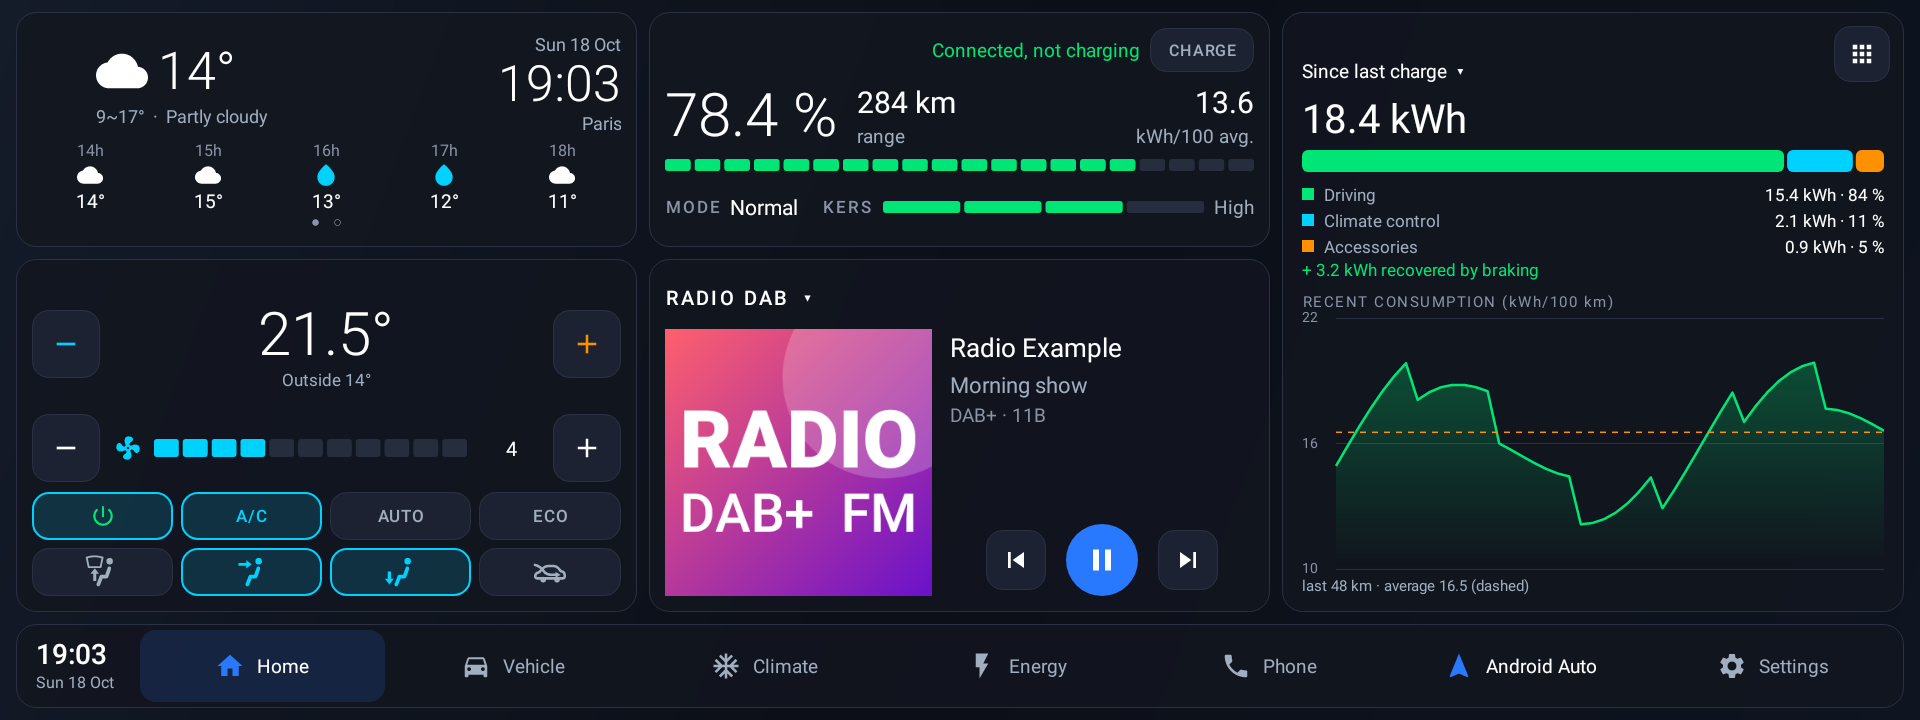
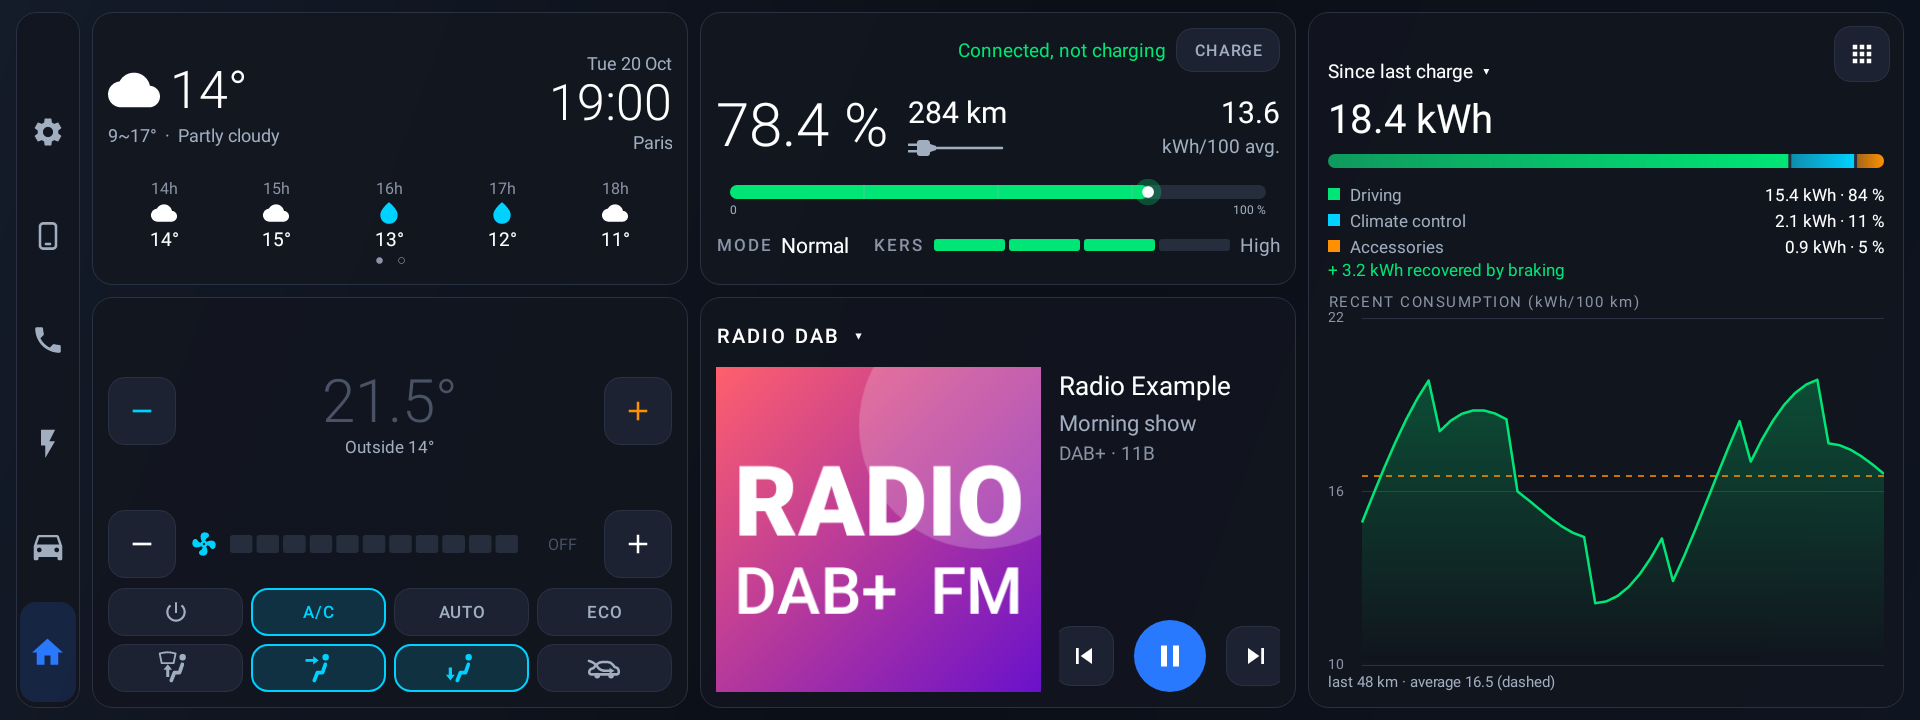
README: 1.3.x changes (Keep climate on, range bar, map and weather offline, full-throttle special) and new screenshots with the vertical bar
Most screenshots now use the vertical bar on the left (fresh install
default); one shows the bottom dock.

diff --git a/app/src/testEmulator/java/app/mg4dash/ScreenshotTest.kt b/app/src/testEmulator/java/app/mg4dash/ScreenshotTest.kt
@@ -26,6 +26,18 @@ import java.util.concurrent.TimeUnit
 @Config(sdk = [28], qualifiers = "w1920dp-h720dp-land-mdpi")
 class ScreenshotTest {
 
+    /** Barre verticale à gauche, comme sur une nouvelle installation ; un test la remet en bas. */
+    @org.junit.Before fun verticalBarByDefault() {
+        org.robolectric.RuntimeEnvironment.getApplication().getSharedPreferences("mg4launcher", android.content.Context.MODE_PRIVATE)
+            .edit().putBoolean("vertical_dock", true).commit()
+    }
+
+    @Test fun homeBottomBar() {
+        org.robolectric.RuntimeEnvironment.getApplication().getSharedPreferences("mg4launcher", android.content.Context.MODE_PRIVATE)
+            .edit().putBoolean("vertical_dock", false).commit()
+        shoot(MainActivity::class.java, "home_bottom_bar.png")
+    }
+
     @Test fun home() = shoot(MainActivity::class.java, "home.png")
     @Test fun climate() = shoot(ClimateActivity::class.java, "climate.png")
     @Test fun vehicle() = shoot(app.mg4dash.pages.VehicleActivity::class.java, "vehicle.png")
@@ -262,30 +274,34 @@ class ScreenshotTest {
 
     /** Clim maintenue : fenêtre sur l'accueil, puis son écran (lisible de dehors). */
     @Test @Config(qualifiers = "fr-w1920dp-h720dp-land-mdpi")
-    fun climateHold() {
+    fun climateHold() = climateHoldShots("")
+
+    @Test fun climateHoldEn() = climateHoldShots("_en")
+
+    private fun climateHoldShots(sfx: String) {
         val sp = org.robolectric.RuntimeEnvironment.getApplication().getSharedPreferences("mg4launcher", android.content.Context.MODE_PRIVATE)
         sp.edit().putInt("theme_mode", 1).putBoolean("climhold_enabled", true).putInt("climhold_max_min", 0).commit()
         val home = Robolectric.buildActivity(MainActivity::class.java).setup().get()
         repeat(5) { shadowOf(Looper.getMainLooper()).idleFor(200, TimeUnit.MILLISECONDS) }
         app.mg4dash.climate.ClimateHoldPanel.show(home)
         shadowOf(Looper.getMainLooper()).idleFor(200, TimeUnit.MILLISECONDS)
-        save(home.window.decorView, "climhold_menu.png")
+        save(home.window.decorView, "climhold_menu$sfx.png")
         sp.edit().putBoolean("climhold_scheduled", true).putInt("climhold_runs", 3).commit()
         app.mg4dash.climate.ClimateHoldPanel.show(home)
         shadowOf(Looper.getMainLooper()).idleFor(200, TimeUnit.MILLISECONDS)
-        save(home.window.decorView, "climhold_menu_at.png")
+        save(home.window.decorView, "climhold_menu_at$sfx.png")
         app.mg4dash.climate.ClimateHold.start(home, 0, 20)
         val armed = Robolectric.buildActivity(app.mg4dash.climate.ClimateHoldActivity::class.java).setup().get()
         repeat(3) { Thread.sleep(200); shadowOf(Looper.getMainLooper()).idleFor(1000, TimeUnit.MILLISECONDS) }
-        save(armed.window.decorView, "climhold_countdown.png")
+        save(armed.window.decorView, "climhold_countdown$sfx.png")
         app.mg4dash.climate.ClimateHold.start(home, 0, 0)
         val screen = Robolectric.buildActivity(app.mg4dash.climate.ClimateHoldActivity::class.java).setup().get()
         repeat(6) { Thread.sleep(300); shadowOf(Looper.getMainLooper()).idleFor(1000, TimeUnit.MILLISECONDS) }
-        save(screen.window.decorView, "climhold_screen.png")
+        save(screen.window.decorView, "climhold_screen$sfx.png")
         app.mg4dash.climate.ClimateHold.schedule(home, System.currentTimeMillis() + 42 * 60_000L, 3, 15, 30, 0)
         val waiting = Robolectric.buildActivity(app.mg4dash.climate.ClimateHoldActivity::class.java).setup().get()
         repeat(6) { Thread.sleep(300); shadowOf(Looper.getMainLooper()).idleFor(1000, TimeUnit.MILLISECONDS) }
-        save(waiting.window.decorView, "climhold_waiting.png")
+        save(waiting.window.decorView, "climhold_waiting$sfx.png")
         app.mg4dash.climate.ClimateHold.stop("fin du test")
     }
 

diff --git a/README.md b/README.md
@@ -4,16 +4,17 @@ Full-screen launcher for the MG4 and its 1920 × 720 screen, developed on the SW
 
 Languages: English (default), French, German, Spanish, Italian and Dutch, following the car's system language. Units: km and kWh/100 km or miles and mi/kWh (following the car or set by hand), tyre pressure in bar, psi or kPa.
 
-Current version: **1.1.0** ([releases](https://github.com/Skittle6938/MG4Dash/releases)).
+Current version: **1.1.0**, latest beta **1.3.6** ([releases](https://github.com/Skittle6938/MG4Dash/releases)).
 
 > Screenshots are rendered on a PC with simulated data; the map excerpt is a fixed view of Paris (OpenStreetMap).
 
 ### Home
-![Home](docs/screenshots/home.png?v=14)
-Climate (temperature, fan, then two rows of buttons: power, A/C, AUTO, ECO, air directions, recirculation), energy (battery % to the tenth, range, estimated consumption, drive mode, KERS, Charge / Start V2L button), the map, Open-Meteo weather, a media card that follows the car's active audio source (DAB/FM radio, Bluetooth, USB, Android Auto) and a bottom-right widget with three pages (see below).
+![Home](docs/screenshots/home.png?v=15)
+Shown with the vertical bar on the left, the default on a fresh install (the bottom dock is still available, see [Vertical bar](#vertical-bar)). Climate (temperature, fan, then two rows of buttons: power, A/C, AUTO, ECO, air directions, recirculation), energy (battery % to the tenth, range with a plug icon, estimated consumption, drive mode, KERS, Charge / Start V2L button), the map, Open-Meteo weather, a media card that follows the car's active audio source (DAB/FM radio, Bluetooth, USB, Android Auto) and a bottom-right widget with three pages (see below).
 
+- **Range bar**: in the style of the live power bar, one colour following the level (green, orange below 30 %, red below 15 %); the % at the start of the trip is marked on the bar, with the part used during the trip in a lighter shade.
 - **Media card**: swipe up / down to switch to the next available source (radio, Bluetooth, USB, Android Auto / CarPlay when connected); playback starts by itself. DAB+ stations show their slideshow image, or the station image cached by the radio.
-- **Weather**: swipe it, or tap its dots, to switch between hourly and daily forecasts, with coloured icons (and a moon on clear nights). The forecast follows the car's position (refreshed every 5 km, city name every 2 km); a fallback city can be set, or taken from the current position, in Settings › Weather. Without data connection it shows the outside temperature and retries until the connection and the position are back.
+- **Weather**: swipe it, or tap its dots, to switch between hourly and daily forecasts, with coloured icons (and a moon on clear nights). The forecast follows the car's position (refreshed every 5 km, city name every 2 km); a fallback city can be set, or taken from the current position, in Settings › Weather. As soon as an update fails (no data connection), it shows the time and the outside temperature, and retries until the connection and the position are back.
 - **Climate card**: the fan goes from off to maximum; long press fan minus jumps to the lowest speed. Long press the temperature to calibrate the displayed set point (−5° to +5°, display only, the car keeps its own value).
 - **Heated seats and steering wheel**: on equipped cars, a row of buttons sits above the temperature, each seat showing its level (0 to 3 heat arrows). Settings › Heated seats and steering wheel: Auto (detected), Yes or No.
 - **Media source menu**: tap the source name on the media card to pick radio, Bluetooth, USB or Android Auto / CarPlay.
@@ -24,29 +25,30 @@ Long press the Android Auto button in the dock to make it open Android Auto, Car
 ### Bottom-right widget
 Swipe or tap it to switch between three pages, all readable at a glance while driving:
 - **Trip energy**: one big bar and the share of driving, climate control and accessories since start-up (details on the Energy page).
-- **Live power**: kW drawn from or recovered into the battery, refreshed every second, on a two-way bar from zero (scale following the battery model, with a 10 s peak marker), with the trip average, the battery voltage and current (green while regenerating). It also hides a **full-throttle special**: floor it and see what happens (Settings › Energy to pick it or turn it off).
+- **Live power**: kW drawn from or recovered into the battery, refreshed every second, on a two-way bar from zero (scale following the battery model, with a 10 s peak marker), with the trip average, the battery voltage and current (green while regenerating). It also hides a **full-throttle special**: floor it and the widget jumps to this page with a rocket, a lightning bolt or flames (or one at random), then goes back (Settings › Energy to pick it or turn it off). The scale and the special follow the MG4 XPower when it is detected or set in Settings › Energy.
 - **Phone**: three favourite contacts chosen from the phone book (tap to call, long press to change).
 
 | | |
 |---|---|
-| ![Live power](docs/screenshots/home_widget_power.png?v=14) | ![Phone favourites](docs/screenshots/home_widget_phone.png?v=14) |
+| ![Live power](docs/screenshots/home_widget_power.png?v=15) | ![Phone favourites](docs/screenshots/home_widget_phone.png?v=15) |
+| ![Full-throttle special](docs/screenshots/boost_rocket_on.png?v=15) | |
 
 ### Map home layout
-![Map layout](docs/screenshots/home_map_layout.png?v=14)
+![Map layout](docs/screenshots/home_map_layout.png?v=15)
 A third layout (Settings › Home layout › Map), suggested in [issue #6](https://github.com/Skittle6938/MG4Dash/issues/6): weather with the date and time, climate on the left, a stack (energy, trip energy, live power, phone) above the media in the centre, and the map over the whole right column. Swipe the stack to change page; with the automatic option, it jumps back to the battery once when the car is plugged in. Speed, heading and altitude sit at the top left of the map; in heading-up mode the car is placed in the lower part to show more of the road ahead.
 
-The map widget also has a **consumption** page and **3 rows of shortcuts** (button at its top right). Without data connection the map stays on screen as long as the area around the car is in the tile cache, and only then switches to consumption. Default zoom (14 to 18) and map colours (like the app, light or dark) are set in the launcher settings.
+The map widget also has a **consumption** page and **3 rows of shortcuts** (button at its top right). Without data connection the map stays on screen as long as the area around the car is in the tile cache, and only then switches to consumption (this switch can be turned off in the settings). Default zoom (14 to 18) and map colours (Auto, following the car's day / night whatever the app theme, Light or Dark) are set in the launcher settings.
 
 The consumption page has a period menu: since the last charge, current trip, last 1,000 km, or the last 12 months (one total and one point per month).
 
 | | |
 |---|---|
-| ![Map layout, consumption](docs/screenshots/home_map_layout_consumption.png?v=14) | ![Map layout, shortcuts](docs/screenshots/home_map_layout_shortcuts.png?v=14) |
-| ![Consumption over 12 months](docs/screenshots/home_map_layout_consumption_year.png?v=14) | ![Heated seats row](docs/screenshots/home_heated_seats.png?v=14) |
+| ![Map layout, consumption](docs/screenshots/home_map_layout_consumption.png?v=15) | ![Map layout, shortcuts](docs/screenshots/home_map_layout_shortcuts.png?v=15) |
+| ![Consumption over 12 months](docs/screenshots/home_map_layout_consumption_year.png?v=15) | ![Heated seats row](docs/screenshots/home_heated_seats.png?v=15) |
 
 ### Vertical bar
-![Vertical bar](docs/screenshots/home_map_layout_vertical.png?v=14)
-Settings › Home layout › *Vertical bar on the left* (on by default on a fresh install): the dock becomes an icon bar on the left, with the space at the top for the MG fog light button. It applies at once to every home layout, every page and to Radio Dash.
+![Vertical bar](docs/screenshots/home_map_layout_vertical.png?v=15)
+Settings › Home layout › *Vertical bar on the left* (on by default on a fresh install): an icon bar on the left, with the space at the top for the MG fog light button. It applies at once to every home layout, every page and to Radio Dash. Turn it off to get the dock at the bottom instead (below, left).
 
 - **Settings**: tap for the launcher settings, long press for the car settings, double tap for Wi-Fi.
 - **Android Auto**: tap to open it, long press to choose Android Auto, CarPlay or another app.
@@ -56,49 +58,63 @@ Settings › Home layout › *Vertical bar on the left* (on by default on a fres
 
 | | |
 |---|---|
-| ![Vertical bar, full layout](docs/screenshots/home_vertical_full.png?v=14) | ![Vertical bar, energy page](docs/screenshots/energy_vertical.png?v=14) |
+| ![Bottom dock](docs/screenshots/home_bottom_bar.png?v=15) | ![Vertical bar, energy page](docs/screenshots/energy_vertical.png?v=15) |
 
 Card titles are left out on every layout for a calmer screen; the media card keeps its source name, which opens the source menu.
 
 ### Turn-by-turn on the map
-![Navigation banner](docs/screenshots/home_map_layout_nav.png?v=14)
+![Navigation banner](docs/screenshots/home_map_layout_nav.png?v=15)
 With [DiAuto](https://github.com/merthankaraman/DiAuto-MG4) (or another Headunit Revived-based Android Auto app that broadcasts `com.andrerinas.headunitrevived.NAVIGATION_UPDATE`), the next manoeuvre is shown over the home map: arrow, distance, street, time and distance left, arrival time. The stock Android Auto app does not receive this information from the phone, so it only works with these apps.
 
 ### Simple home layout
-![Simple home](docs/screenshots/home_simple.png?v=14)
-An alternative, calmer home screen for those who want fewer buttons and bigger text: three large panels (climate, battery, media), two configurable shortcuts and today's weather, with a reduced dock (Home, Phone, Android Auto, Settings). Choose it in the launcher settings, under "Home layout"; tap a panel to open the matching page.
+![Simple home](docs/screenshots/home_simple.png?v=15)
+An alternative, calmer home screen for those who want fewer buttons and bigger text: three large panels (climate, battery, media), two configurable shortcuts and today's weather, with the vertical bar, or a reduced bottom dock (Home, Phone, Android Auto, Settings). Choose it in the launcher settings, under "Home layout"; tap a panel to open the matching page.
 
 ### Shortcuts and Home Assistant
-![Shortcuts](docs/screenshots/home_shortcuts.png?v=14)
+![Shortcuts](docs/screenshots/home_shortcuts.png?v=15)
 The button at the top right of the map swaps it for pages of shortcuts: apps or Home Assistant actions (scripts, automations, scenes, buttons, gate, garage door…). Tap an empty slot, or long press any slot, to change it. The Home Assistant address and token are set in the launcher settings.
 
 ### Themes
-![Charcoal background, orange buttons](docs/screenshots/home_theme_charcoal_orange.png?v=14)
+![Charcoal background, orange buttons](docs/screenshots/home_theme_charcoal_orange.png?v=15)
 Background (night blue, black, charcoal, dark green, dark burgundy) and button colour (blue, grey, red, green, orange) are chosen separately in the launcher settings and apply to every page. Battery green, heating orange, cooling cyan and alert red keep their meaning. Radio Dash follows the same theme.
 
 Light mode: dark, light or auto in the same settings. In auto, every page (and Radio Dash, even while it stays on screen) switches to dark when the car's lights come on, and back to light when they go off.
 
-![Light mode, home](docs/screenshots/home_light.png?v=14)
+![Light mode, home](docs/screenshots/home_light.png?v=15)
 
 | | |
 |---|---|
-| ![Climate, light](docs/screenshots/climate_light.png?v=14) | ![Energy, light](docs/screenshots/energy_light.png?v=14) |
-| ![Simple home, light](docs/screenshots/home_simple_light.png?v=14) | ![Settings, light](docs/screenshots/settings_light.png?v=14) |
+| ![Climate, light](docs/screenshots/climate_light.png?v=15) | ![Energy, light](docs/screenshots/energy_light.png?v=15) |
+| ![Simple home, light](docs/screenshots/home_simple_light.png?v=15) | ![Settings, light](docs/screenshots/settings_light.png?v=15) |
 
 ### Climate
-![Climate](docs/screenshots/climate.png?v=14)
+![Climate](docs/screenshots/climate.png?v=15)
 Temperature in 1° steps (LO → HI), fan speed, combinable air direction, AUTO, A/C, ECO, recirculation and front / rear defrost.
 
+### Keep climate on
+![Keep climate on, at a set time](docs/screenshots/climhold_menu_at_en.png?v=15)
+A camp mode, off by default (Settings › Home layout › *Keep climate on*), then a long press on MG4Dash's climate power button (home screen or Climate page). It keeps the car on with the climate running while you are away or sleeping in the car: **now** (for a set time or without limit), or **at a set time** in one or more runs with a pause between them.
+
+- After a countdown (20 s by default) **MG4Dash locks the doors itself**: get out and take the key with you. Do not lock with the key fob, which switches the whole car off, head unit included, and ends the mode.
+- A large status screen stays readable from outside: outside temperature, climate state, time left, runs and battery. It is always dark, its brightness drops to the minimum once locked (a tap brings it back for 10 s), and an option turns it fully off for sleeping or discretion.
+- The mode ends after the last run, at the end of the set time or below 20 % battery (climate off, car switched off), and stops as soon as the doors are unlocked or the car drives off. An option folds electric mirrors when locking (to test).
+- The lights follow the light stalk: leave it on Auto.
+- **Never leave a child or an animal alone in the car**: the climate can stop at any time (battery, fault, car switching off).
+
+| | |
+|---|---|
+| ![Countdown before locking](docs/screenshots/climhold_countdown_en.png?v=15) | ![Status screen](docs/screenshots/climhold_screen_en.png?v=15) |
+
 ### Energy
-![Energy](docs/screenshots/energy.png?v=14)
+![Energy](docs/screenshots/energy.png?v=15)
 Charging (start / stop, charge limit on firmwares where the car applies it, AC current, time left, AC input voltage and current, reason when the car stops charging, charging cable lock), scheduled charging, V2L (adapter state, stop threshold, start / stop), battery heating while driving (same switch as the stock Energy app) and consumption (since the last charge, current trip, last 1,000 km or last 12 months: driving, climate, accessories, energy and range recovered by braking, consumption curve).
 
 ### Vehicle
-![Vehicle](docs/screenshots/vehicle.png?v=14)
+![Vehicle](docs/screenshots/vehicle.png?v=15)
 Drive mode (including Eco, Snow and Custom where the car has them), regeneration (tap the gauge to change it; level 6 is one-pedal driving), driver assistance, tyre pressures and temperatures, and vehicle status, with a shortcut to MG4 Control.
 
 ### Phone
-![Phone](docs/screenshots/phone.png?v=14)
+![Phone](docs/screenshots/phone.png?v=15)
 Recent calls, contacts with a search field and a keypad, from the phone connected over Bluetooth. Calls go through the hands-free (HFP) account, like the stock phone app, whose in-call screen is kept.
 
 ### Battery health (estimated)
@@ -107,14 +123,14 @@ Shown on the Vehicle page. While driving, MG4Dash measures the energy actually t
 The car does not share the battery or motor temperature with the head unit, so MG4Dash cannot show them.
 
 ### Launcher settings
-![Settings](docs/screenshots/settings.png?v=14)
+![Settings](docs/screenshots/settings.png?v=15)
 Grouped by category in one scrolling page. Each on/off option is a single button that lights up when it is on.
 
 | Section | Options |
 |---|---|
-| Home layout | Full, Simple or Map; vertical bar on the left; full screen (hides the SAIC side bar and banner); units (like the car, km · kWh/100 km, miles · mi/kWh); heated seats and steering wheel buttons (auto, yes, no); tyre pressure unit (auto, bar, psi, kPa); default map zoom; map colours; map layout stack back to the battery when plugged in |
+| Home layout | Full, Simple or Map; vertical bar on the left; full screen (hides the SAIC side bar and banner); units (like the car, km · kWh/100 km, miles · mi/kWh); heated seats and steering wheel buttons (auto, yes, no); tyre pressure unit (auto, bar, psi, kPa); default map zoom; map colours (auto, light, dark); switch to the energy widget when offline; map layout stack back to the battery when plugged in; Keep climate on, fold the mirrors when locking |
 | Theme | background, button colour, light / dark / auto (follows the car's lights) |
-| Energy | usable battery capacity (read from the car, measured, or set by hand), battery model for the health estimate |
+| Energy | usable battery capacity (read from the car, measured, or set by hand), battery model for the health estimate, MG4 XPower, full-throttle special |
 | Home screen | replace the SAIC home, maintenance mode, briefly open the SAIC launcher at startup |
 | Update | check and install, include beta versions; Radio Dash update (SWI69 only) |
 | Weather | fallback city, or use my position |
